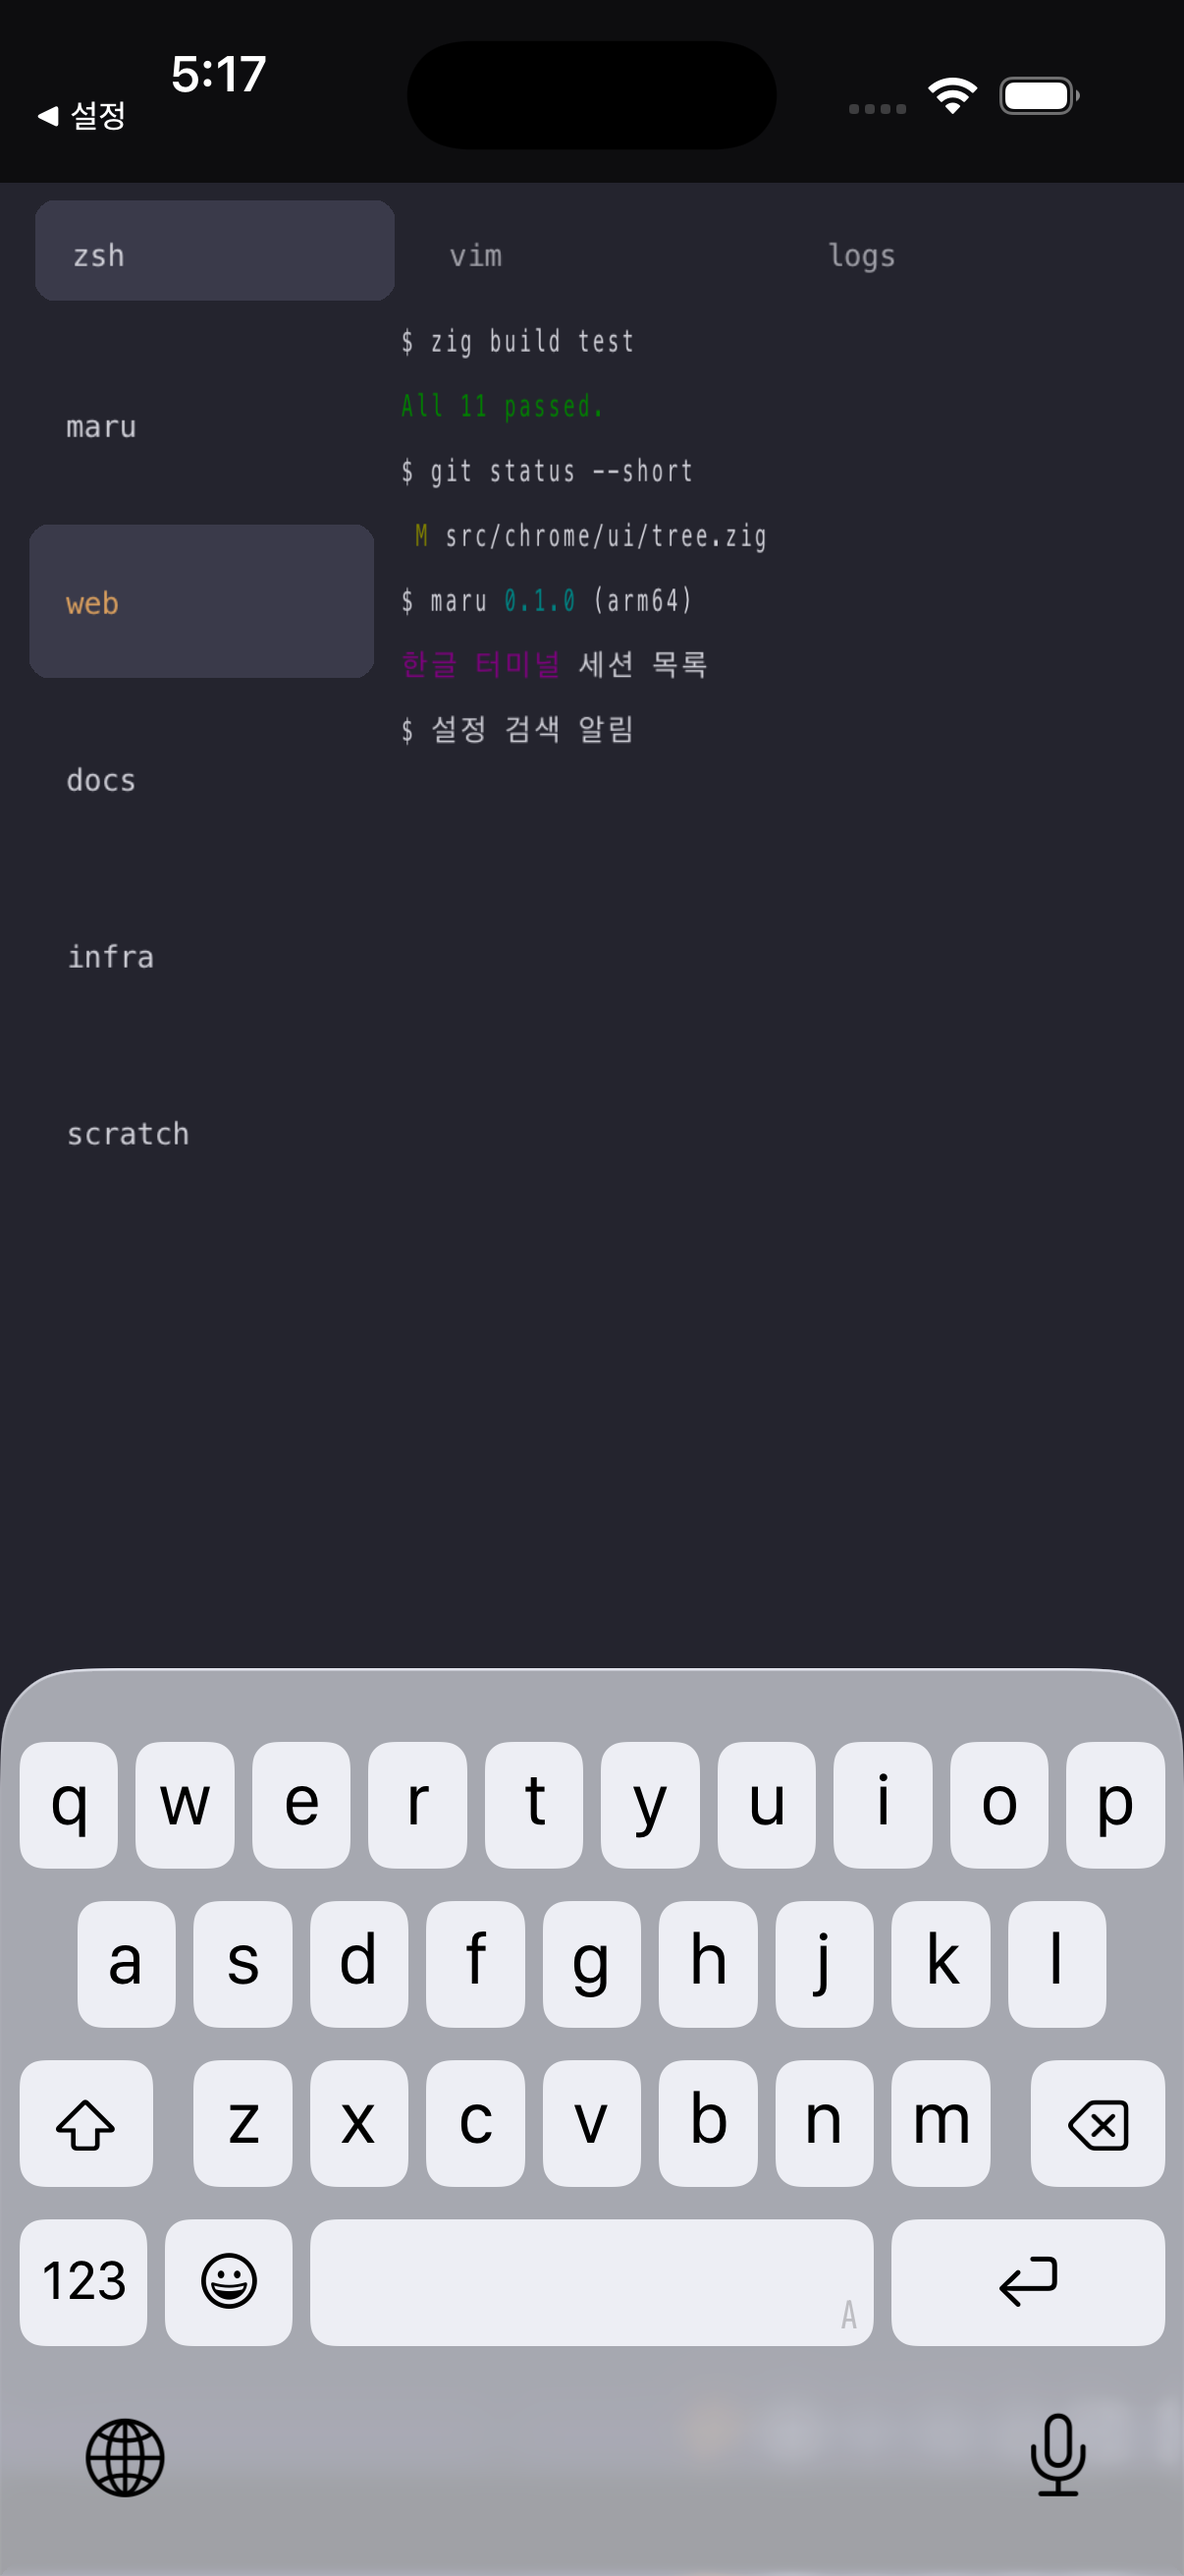
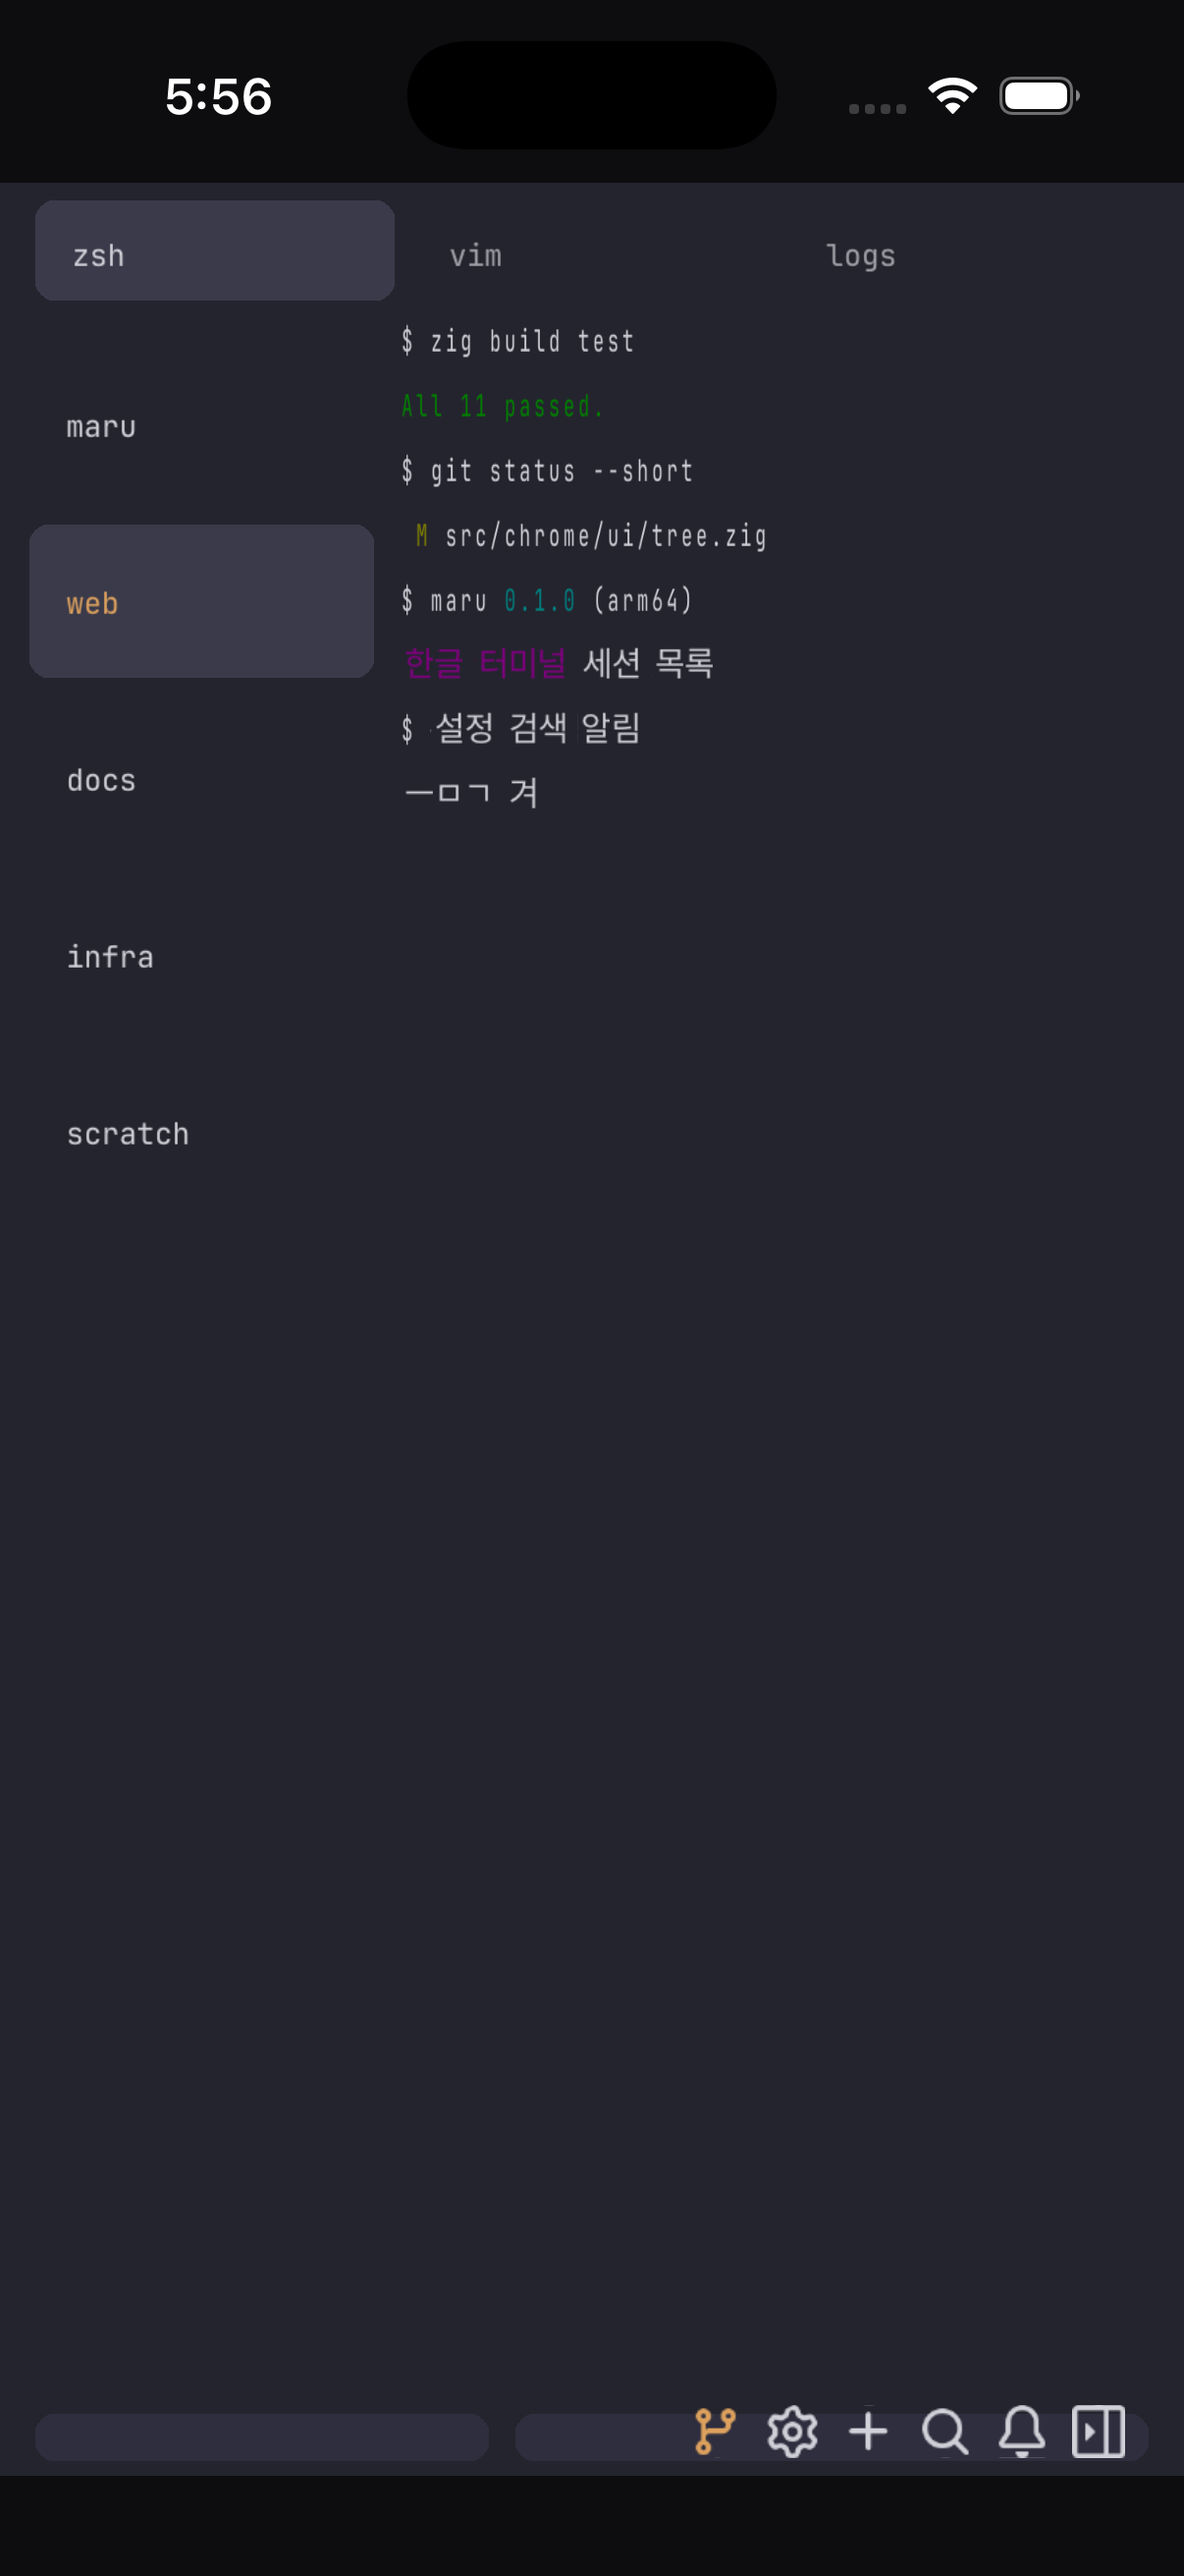
feat(mobile): idb 로 iOS 입력·터치를 확인하고 아틀라스를 자라게 한다
**"iOS 는 키를 넣을 수단이 없다"고 적은 것이 틀렸다.** `idb`(Facebook 의 iOS Development
Bridge)가 이미 깔려 있었다. `idb ui text` 로 넣은 키가 `insertText:` → 코어 → 화면까지
닿고, `idb ui tap` 으로 터치도 확인했다.

  - **터치 → 셀**: `idb ui tap 200 300` → 논리 (200,238) → 셀 (12,8). 배치를 아는 쪽이
    답한다 — 플랫폼은 점만 넘기고 `maru_hit_cell` 이 푼다. 그 rect·셀 크기는 렌더가 쓴
    것과 **같은 변수**다(따로 두면 렌더와 판정이 갈린다).
  - **입력**: macOS 입력기가 한글이라 HID 키가 한글 IME 를 거쳐 조합돼 들어온다 —
    IME 경로가 서 있다는 뜻이다(preedit 는 여전히 미확인).

**아틀라스가 안 자라는 것이 그 과정에서 드러났다.** 입력이 코어엔 들어왔는데 화면이
그대로였다 — 고정 49자라 그릴 글리프가 없어 **조용히** 안 그려진 것이다. 이제 Zig 가 못
찾은 코드포인트를 모으고 플랫폼이 그 슬롯만 구워 올린다(부분 업데이트 = 여섯 기능 4번).

만들면서 두 결함을 실측으로 잡았다.

  - **아틀라스가 서기 전에 build 가 한 번 돈다.** 그때 모든 글자가 "없음"으로 기록돼
    이미 있는 'z' 같은 ASCII 를 슬롯만 축내며 다시 굽고 있었다(`grew=15
    first_missing=U+007A`). `maru_atlas_add` 가 등록 시 목록에서 빼도록 고쳤다.
  - **해제된 폰트를 retain 해 앱이 죽었다.** `CFRelease(base)` 뒤에 `CFRetain(base)` 를
    뒀다. 소유권을 release 전에 넘기도록 고쳤다.

증상이 원인을 안 가리키는 종류라 추측 대신 코어의 행을 직접 조회(`maru_row_first_cp`)해
"코어엔 있는데 화면엔 없다"를 갈랐다.

diff --git a/tools/mobile-poc/chrome_app.m b/tools/mobile-poc/chrome_app.m
@@ -26,6 +26,12 @@ extern const unsigned char *maru_icon_atlas(void);
 extern unsigned int maru_icon_slot_px(void);
 extern unsigned int maru_icon_count(void);
 extern unsigned int maru_term_input(const char *bytes, unsigned long len);
+extern unsigned int maru_hit_cell(float x, float y);
+extern unsigned int maru_missing_count(void);
+extern unsigned int maru_row_first_cp(unsigned int row);
+extern unsigned int maru_missing_cp(unsigned int i);
+extern unsigned int maru_next_slot(unsigned int cols);
+extern void maru_missing_clear(void);
 
 // 둥근 모서리를 프래그먼트에서 자른다 — maru 의 rich quad 가 corner_radii 를 쓰므로
 // 그 모양이 실제로 나오는지 보려면 필요하다.
@@ -84,6 +90,8 @@ typedef struct { float rect_px[4]; float color[4]; float misc[4]; float cell[4];
     id<MTLTexture> _glyphTex;
     id<MTLTexture> _iconTex;
     unsigned int _atlasCols, _atlasRows;
+    CTFontRef _atlasFont;
+    unsigned int _atlasH;
     CADisplayLink *_link;
     unsigned int _tickCount;
 }
@@ -153,10 +161,13 @@ typedef struct { float rect_px[4]; float color[4]; float misc[4]; float cell[4];
         if (advance <= 0) advance = CW / 2;
         maru_atlas_add(c, (unsigned int)col, (unsigned int)row, (unsigned int)advance);
     }
+    // 온디맨드 성장이 같은 폰트를 계속 쓰므로 여기서 소유권을 넘겨받는다 —
+    // 아래 release 뒤에 retain 하면 해제된 객체를 만진다(그렇게 짰다가 앱이 죽었다).
+    _atlasFont = (CTFontRef)CFRetain(base);
     CFRelease(base); CFRelease(korean);
     CGContextRelease(ctx); CGColorSpaceRelease(cs);
 
-    _atlasCols = COLS; _atlasRows = (unsigned int)rows;
+    _atlasCols = COLS; _atlasRows = (unsigned int)rows; _atlasH = H;
     MTLTextureDescriptor *td =
         [MTLTextureDescriptor texture2DDescriptorWithPixelFormat:MTLPixelFormatR8Unorm
                                                            width:W height:H mipmapped:NO];
@@ -224,6 +235,20 @@ typedef struct { float rect_px[4]; float color[4]; float misc[4]; float cell[4];
 
 // **입력**: 하드웨어 키보드가 이 뷰로 온다. 받은 문자를 바이트로 코어에 먹인다 —
 // 코어는 PTY 에서 온 것과 구분하지 않는다(Android 쪽과 같은 계약).
+// **터치**: 탭한 지점을 셀 좌표로 바꿔 코어에 알린다. 데스크톱의 포인터 조회와 같은 계약이고,
+// 여기서 확인하려는 것은 "터치가 논리 좌표를 거쳐 셀까지 닿는가"다.
+- (void)touchesBegan:(NSSet<UITouch *> *)touches withEvent:(UIEvent *)event {
+    UITouch *touch = touches.anyObject;
+    CGPoint p = [touch locationInView:self];
+    UIEdgeInsets safe = self.safeAreaInsets;
+    // 플랫폼이 넘긴 것과 같은 논리 좌표계로 되돌린다 — 안 그러면 셀이 어긋난다.
+    float lx = (float)(p.x - safe.left);
+    float ly = (float)(p.y - safe.top);
+    unsigned int cell = maru_hit_cell(lx, ly);
+    NSLog(@"MARU_TOUCH pt=(%.0f,%.0f) logical=(%.0f,%.0f) cell=(%u,%u)",
+          p.x, p.y, lx, ly, cell >> 16, cell & 0xFFFF);
+}
+
 - (BOOL)canBecomeFirstResponder { return YES; }
 // 소프트 키보드는 이 PoC 에서 화면 절반을 가린다. 빈 `inputView` 를 주면 키보드는 안 뜨고
 // **입력 대상 자격은 그대로** 남는다(하드웨어 키는 계속 `insertText:` 로 온다).
@@ -238,6 +263,50 @@ typedef struct { float rect_px[4]; float color[4]; float misc[4]; float cell[4];
     if (!b) return;
     unsigned int total = maru_term_input(b, strlen(b));
     NSLog(@"MARU_INPUT text=%@ total=%u", text, total);
+}
+
+// **아틀라스를 키운다.** Zig 가 모은 미등록 코드포인트를 그 슬롯에만 구워 올린다 —
+// 텍스처 전체를 다시 만들지 않고 `replaceRegion` 으로 그 칸만 바꾼다(여섯 기능 4번과 같은 경로).
+- (void)growAtlas {
+    unsigned int n = maru_missing_count();
+    if (n == 0 || !_atlasFont || !_glyphTex) return;
+    const unsigned int CW = 24, CH = 32;
+    uint8_t *cell = calloc(CW * CH, 1);
+    CGColorSpaceRef cs = CGColorSpaceCreateDeviceGray();
+    unsigned int added = 0;
+    unsigned int firstMissing = maru_missing_cp(0);
+    for (unsigned int i = 0; i < n; i++) {
+        unsigned int cp = maru_missing_cp(i);
+        if (cp == 0 || cp > 0xFFFF) continue;
+        unsigned int slot = maru_next_slot(_atlasCols);
+        unsigned int col = slot >> 16, row = slot & 0xFFFF;
+        if (row >= _atlasRows) break;  // 아틀라스가 꽉 찼다 — 축출은 이 PoC 범위 밖이다
+        memset(cell, 0, CW * CH);
+        CGContextRef ctx = CGBitmapContextCreate(cell, CW, CH, 8, CW, cs, kCGImageAlphaNone);
+        CGContextSetGrayFillColor(ctx, 1.0, 1.0);
+        unichar c = (unichar)cp;
+        CGGlyph glyph = 0;
+        CTFontGetGlyphsForCharacters(_atlasFont, &c, &glyph, 1);
+        if (glyph) {
+            CGPoint pos = CGPointMake(1, 8);   // 셀 하나짜리 컨텍스트라 원점이 곧 셀 원점이다
+            CTFontDrawGlyphs(_atlasFont, &glyph, &pos, 1, ctx);
+        }
+        CGContextRelease(ctx);
+        CGSize adv = CGSizeZero;
+        if (glyph) CTFontGetAdvancesForGlyphs(_atlasFont, kCTFontOrientationHorizontal, &glyph, &adv, 1);
+        unsigned int advance = (unsigned int)(adv.width + 0.5);
+        if (advance == 0) advance = CW / 2;
+        [_glyphTex replaceRegion:MTLRegionMake2D(col * CW, row * CH, CW, CH) mipmapLevel:0
+                       withBytes:cell bytesPerRow:CW];
+        maru_atlas_add(cp, col, row, advance);
+        added++;
+    }
+    CGColorSpaceRelease(cs);
+    free(cell);
+    maru_missing_clear();
+    if (added) NSLog(@"MARU_ATLAS grew=%u first_missing=U+%04X rows: 6=U+%04X 7=U+%04X 8=U+%04X",
+                     added, firstMissing,
+                     maru_row_first_cp(6), maru_row_first_cp(7), maru_row_first_cp(8));
 }
 
 + (Class)layerClass { return [CAMetalLayer class]; }
@@ -289,6 +358,8 @@ typedef struct { float rect_px[4]; float color[4]; float misc[4]; float cell[4];
     CGSize logical = CGSizeMake(self.bounds.size.width - safe.left - safe.right,
                                 self.bounds.size.height - safe.top - safe.bottom);
     unsigned int n = maru_chrome_build((unsigned int)logical.width, (unsigned int)logical.height);
+    // build 가 못 그린 글자를 모아 뒀다 — 그것만 구워 넣고 **다음 프레임에 보이게** 한다.
+    [self growAtlas];
     const CQuad *quads = maru_chrome_quads();
 
     MTLRenderPassDescriptor *rp = [MTLRenderPassDescriptor renderPassDescriptor];
